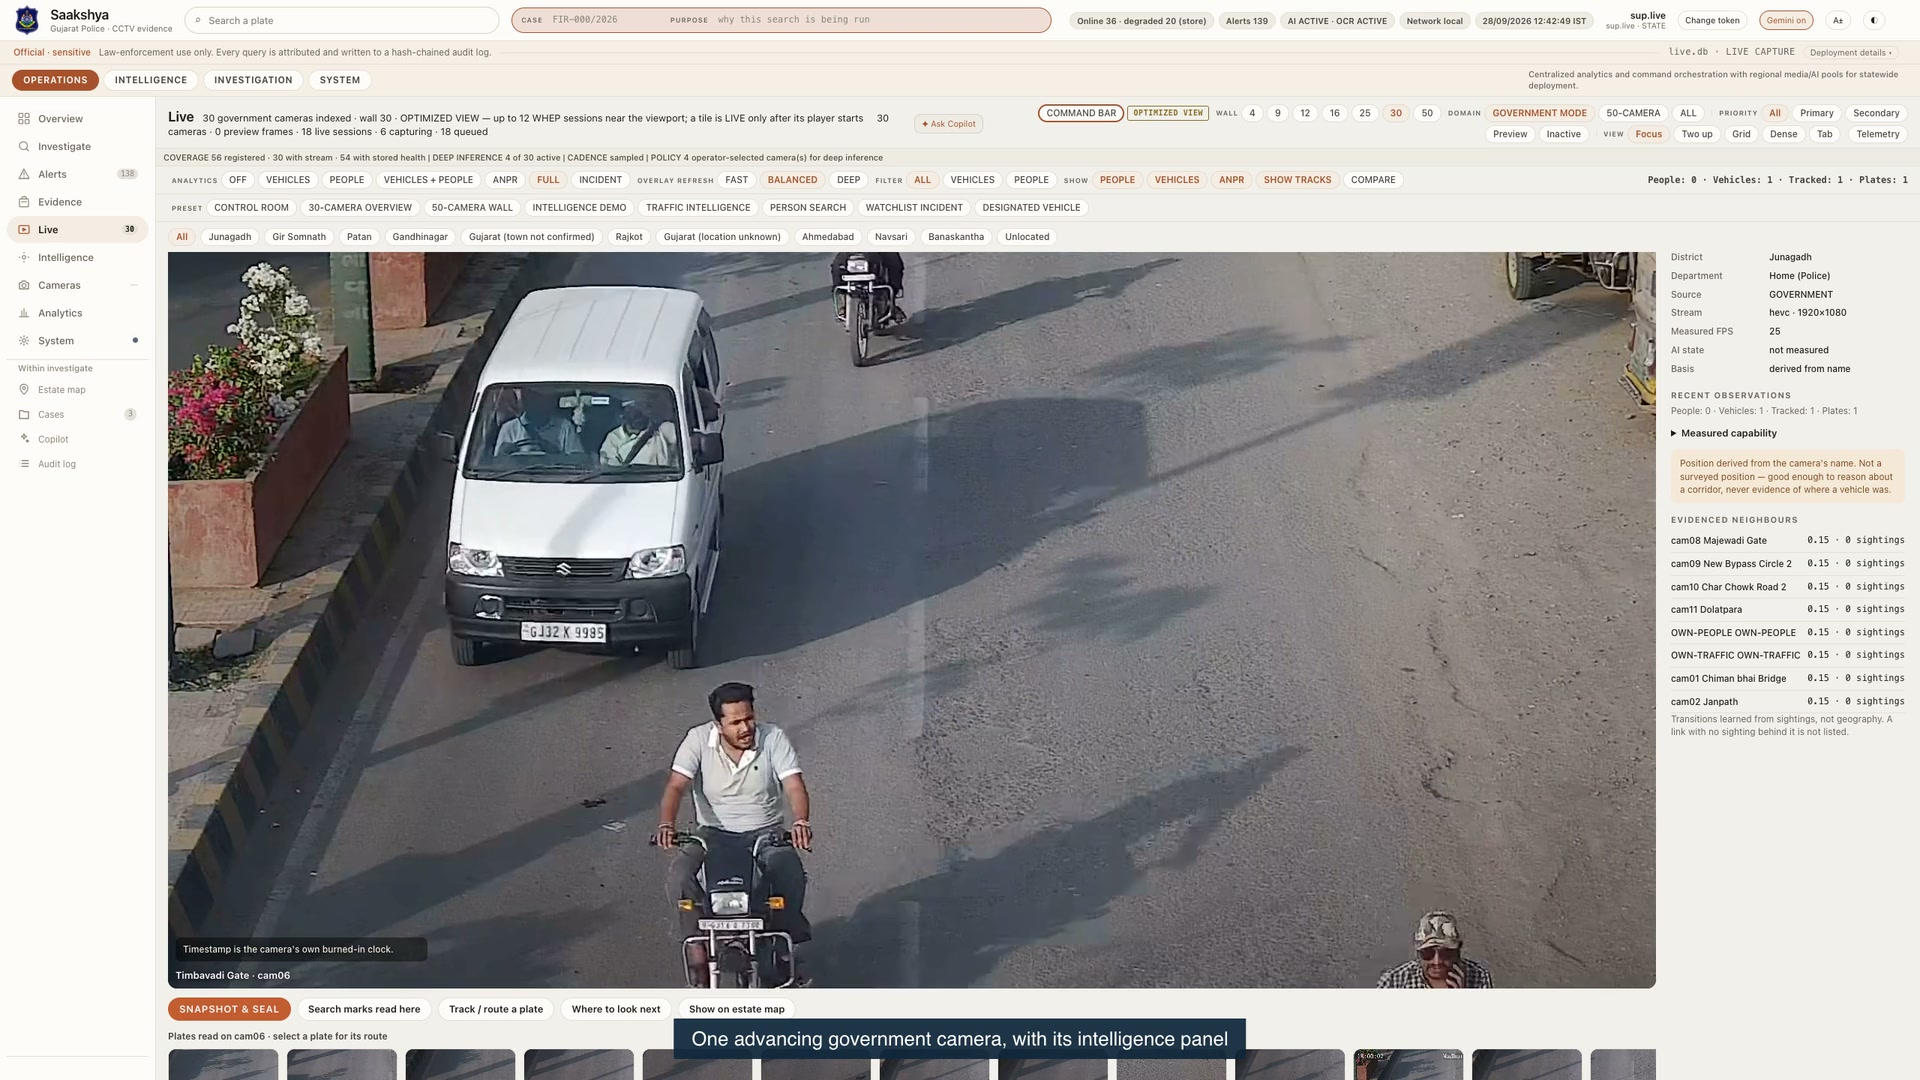
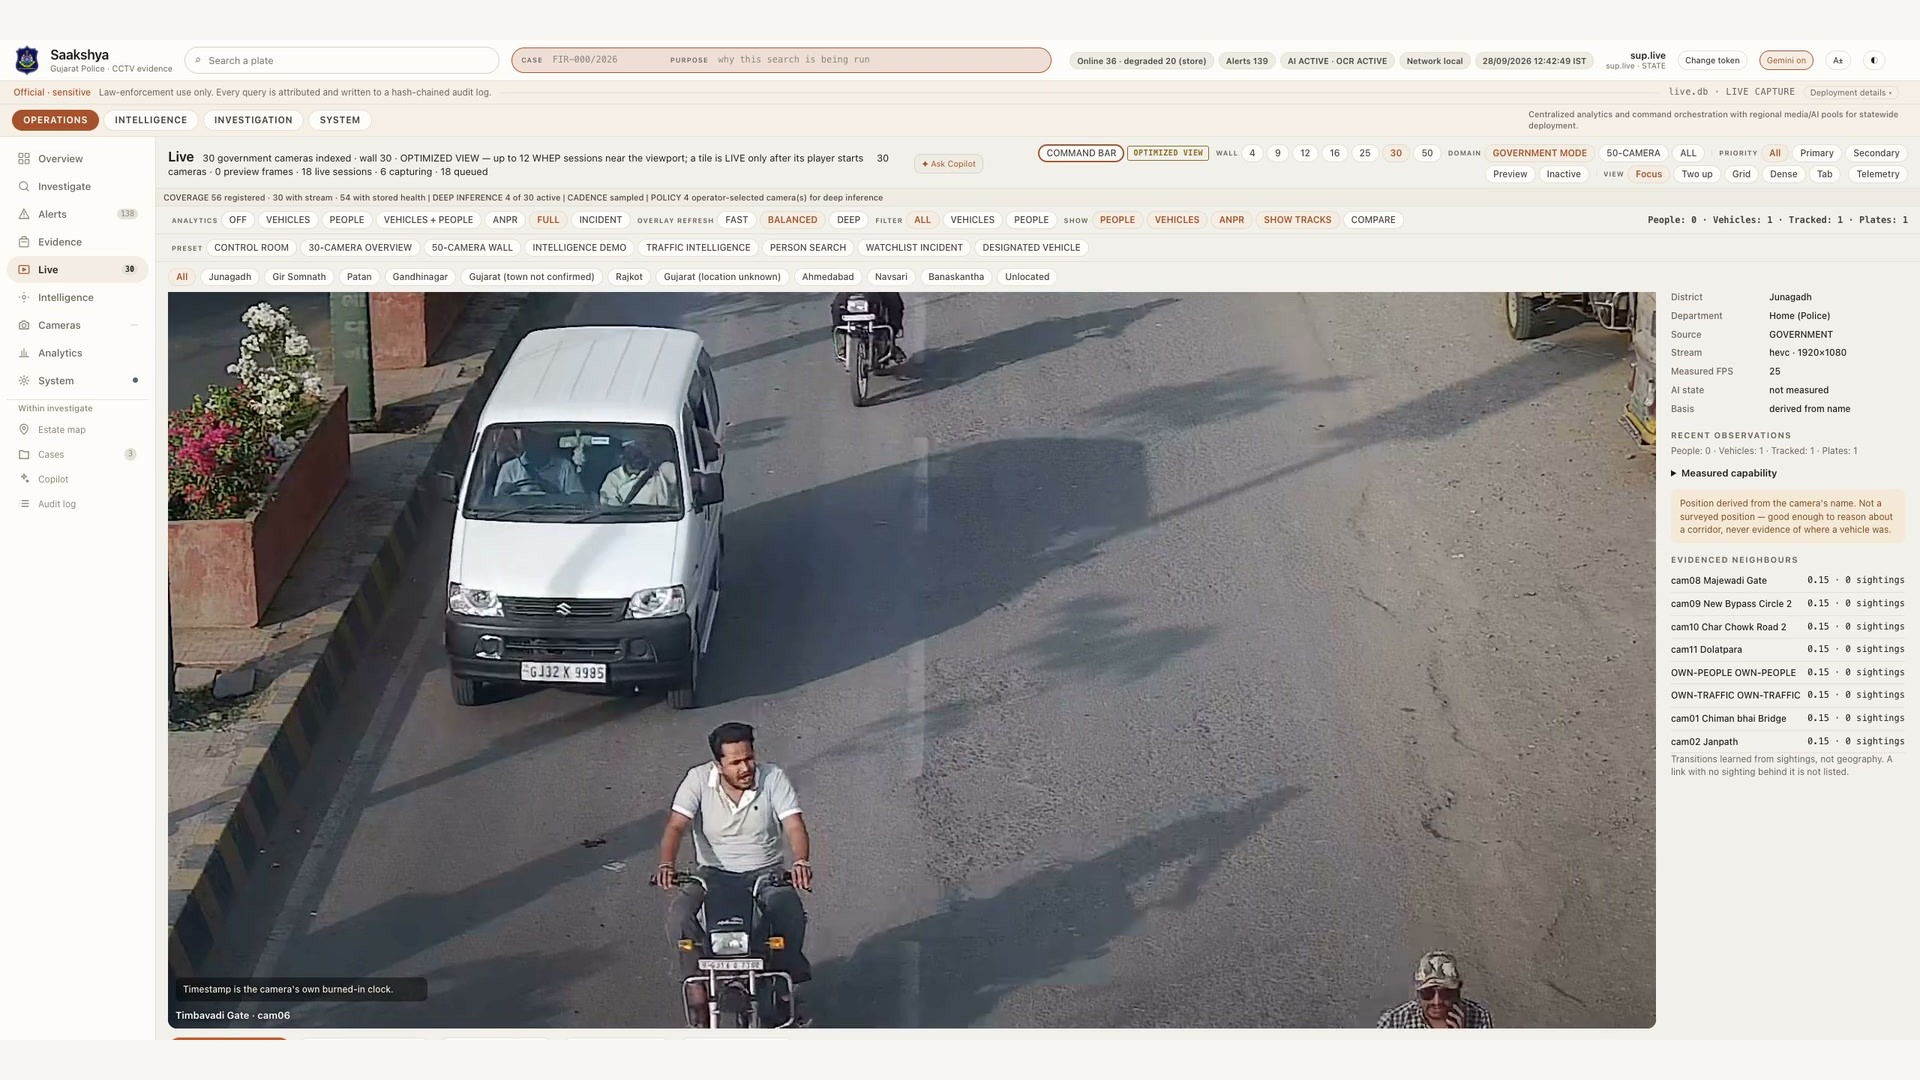
Remove empty thumbnail strip from demo poster

diff --git a/PROVENANCE.md b/PROVENANCE.md
@@ -10,7 +10,7 @@ Khamir Desai leads this submission; Daksh Rathod is listed as a team member. The
 
 The original application was integrated with Sentinel network video streams. The retained [live-feed findings](https://github.com/khamirdesai/DAU-Daiict-submission-Sentinel-gujarat-Hackathone/blob/9b65247f0f23093ee7147f9c4f80a053a280a07f/docs/LIVE_FEED_FINDINGS.md) report 30/30 RTSP streams active at the end of a staged four-minute run on 2 September 2026. The run delivered 16,913 frames and analysed 1,725 sampled frames. This is simultaneous stream ingest, distinct from full-rate deep-inference coverage.
 
-The 28 September live session produced 4,465 observations and 200 plate reads using four selected deep-inference slots. Its unchanged 5:40 film is available on the public video page under the Sentinel stream tab. Sentinel serves recorded scenes as simulated-live network streams. The full tour separately uses government footage captured earlier and labelled RECORDED. The Sentinel video poster is an unchanged focused-camera frame extracted at 1:45 from the original film. Deck slides 2 and 13 show cropped focused-camera frames from the same session; the separate 30-stream metric refers to the earlier staged ingest test. Some camera tiles in the original recording show connecting or unavailable states.
+The 28 September live session produced 4,465 observations and 200 plate reads using four selected deep-inference slots. Its unchanged 5:40 film is available on the public video page under the Sentinel stream tab. Sentinel serves recorded scenes as simulated-live network streams. The full tour separately uses government footage captured earlier and labelled RECORDED. The Sentinel video poster is a cropped and padded focused-camera frame extracted at 1:45 from the original film; it shows one stream. Deck slides 2 and 13 show cropped focused-camera frames from the same session; the separate 30-stream metric refers to the earlier staged ingest test. Some camera tiles in the original recording show connecting or unavailable states.
 
 ## Build 2036 packaging
 
